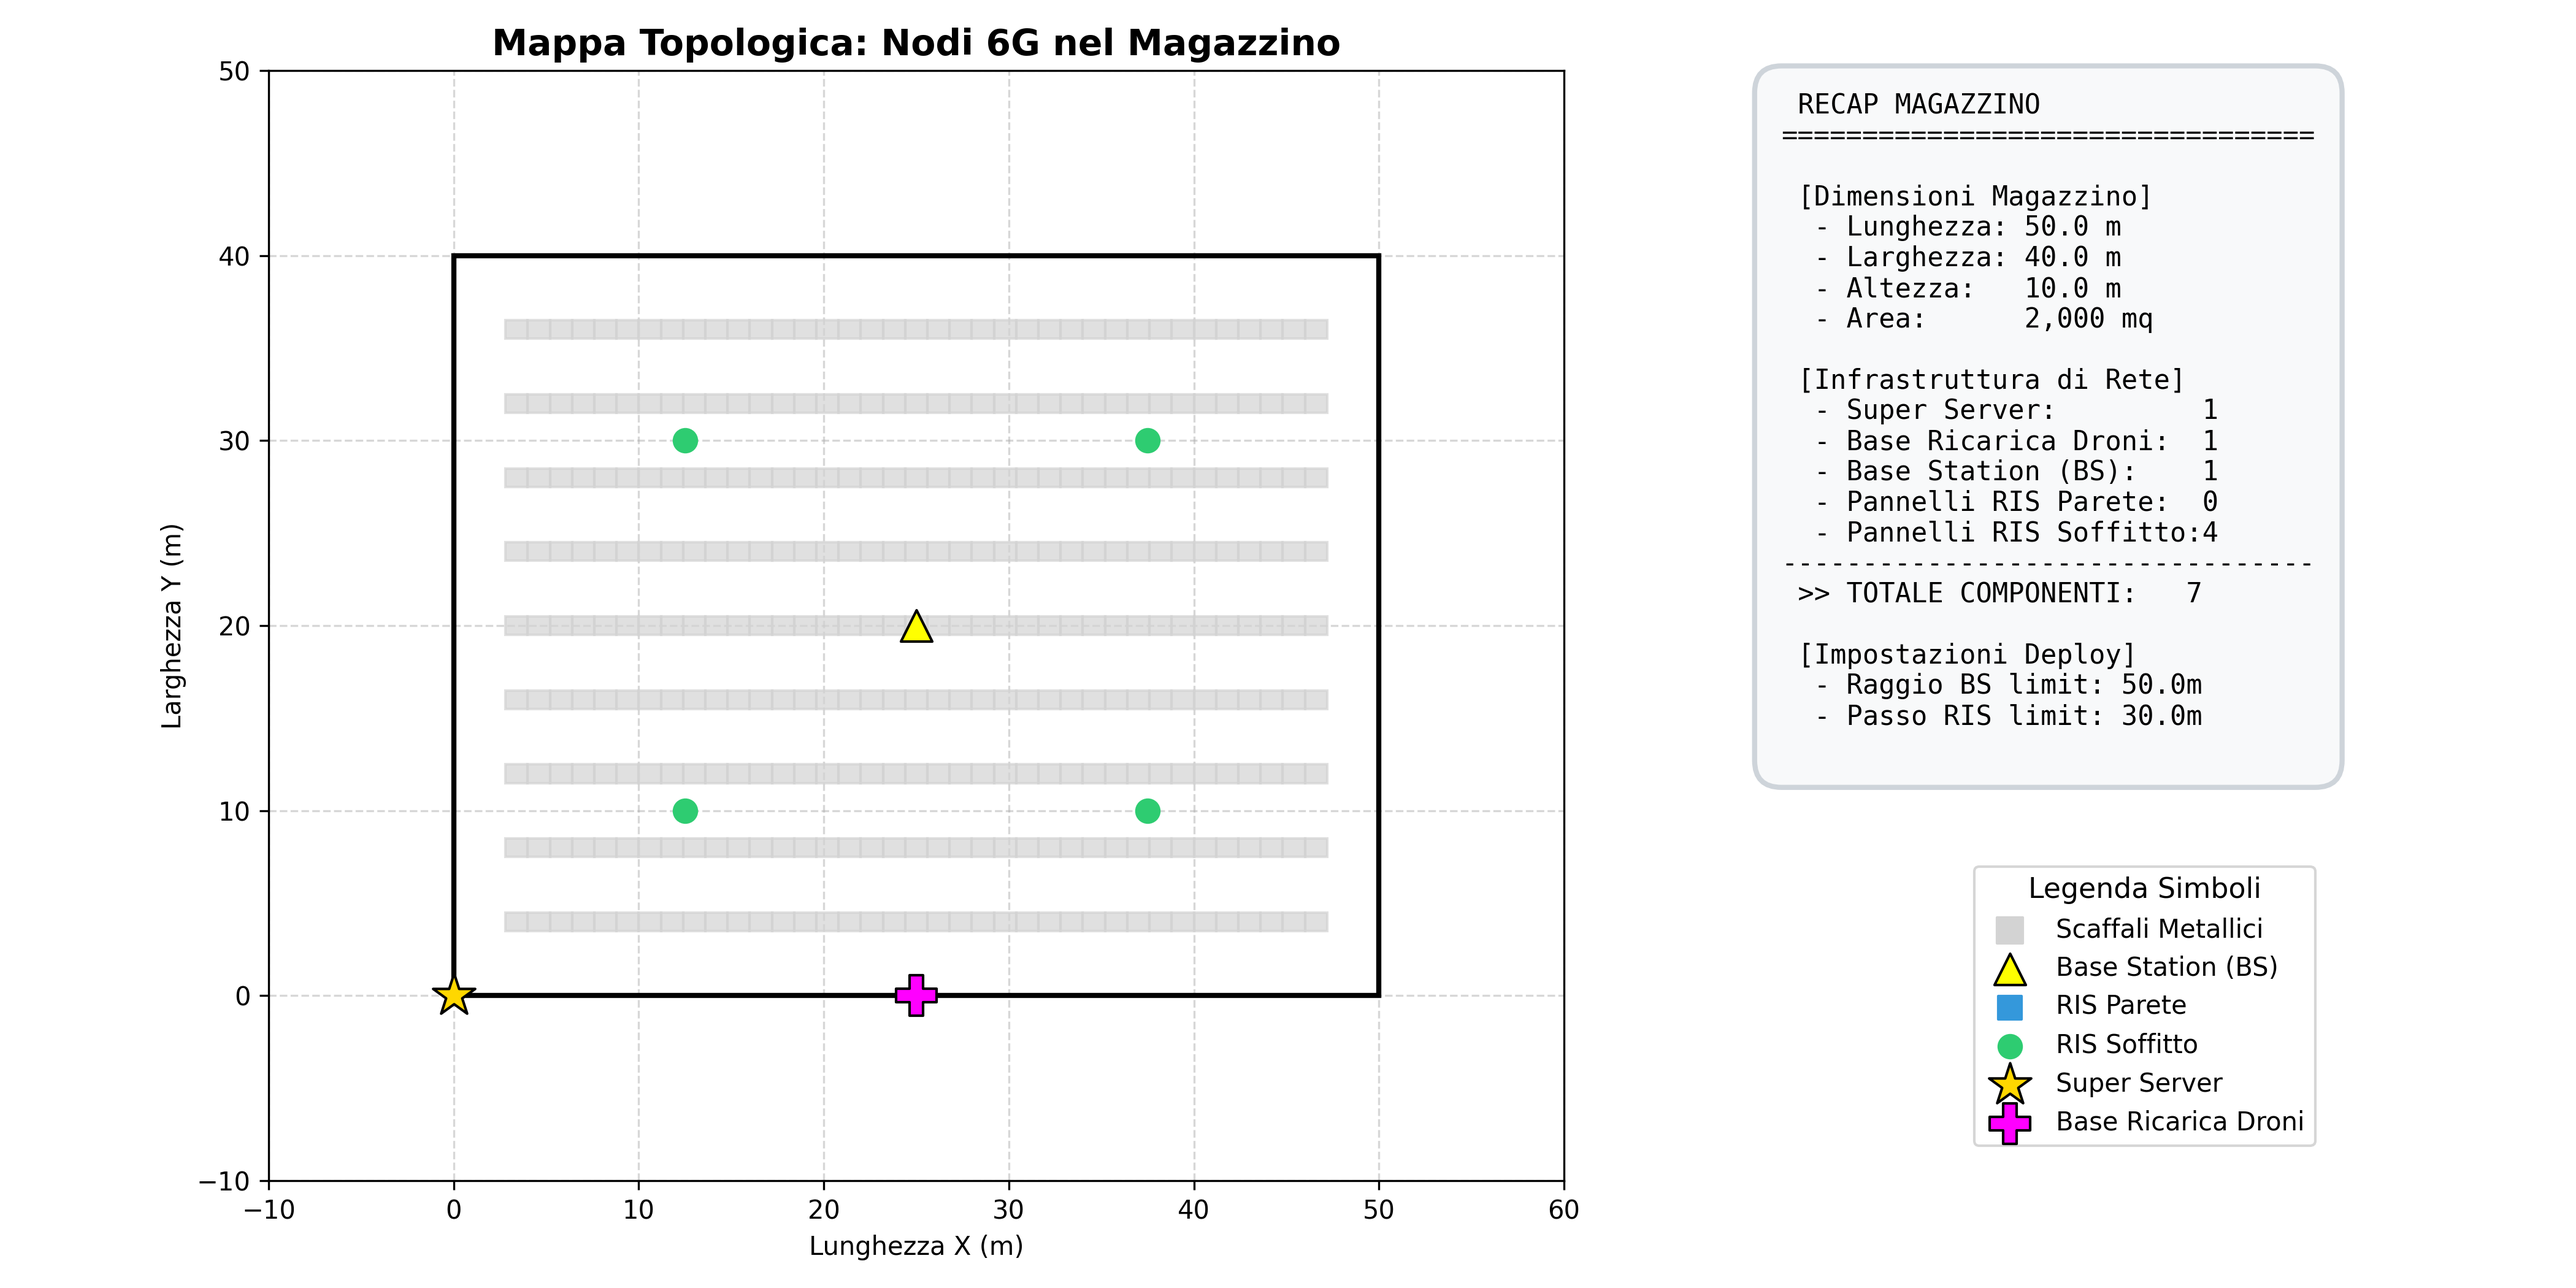
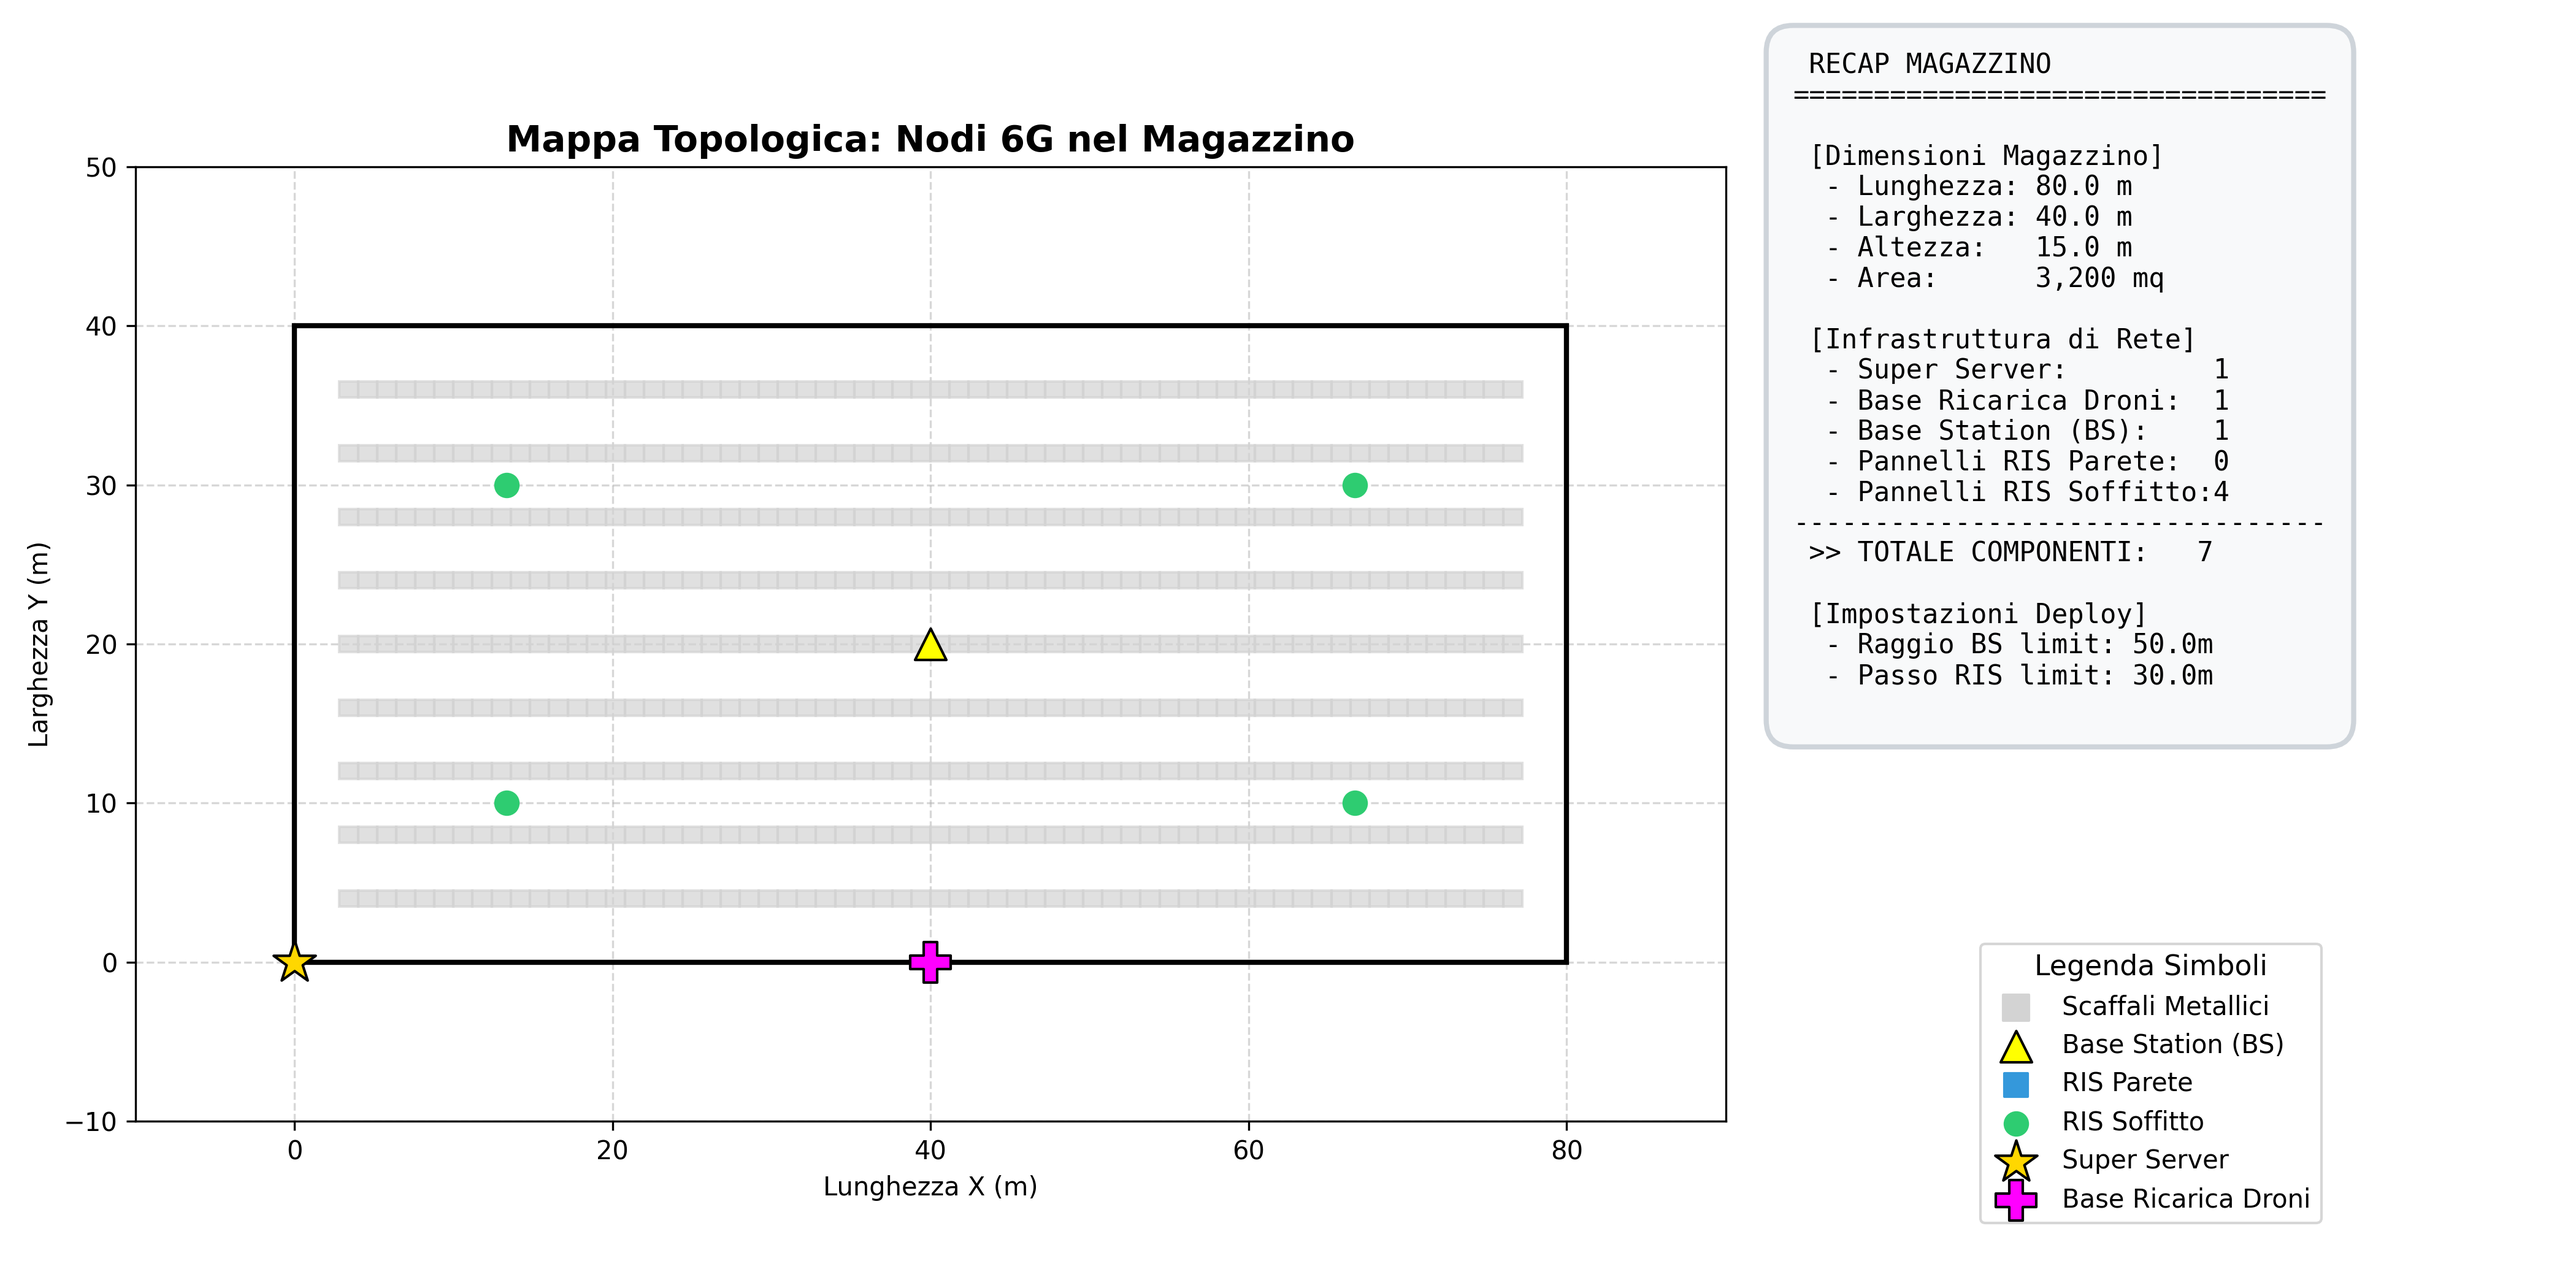
STEP 11 - AGG. ULTIMA VERSIONE

diff --git a/config.py b/config.py
@@ -1011,7 +1011,7 @@ class SimulationEngine:              # Motore di simulazione
             ris_tutte_bom   = [[r['x'], r['y'], 'soffitto'] for r in bom_planner.ris_soffitto] + \
                                [[r['x'], r['y'], 'parete'] for r in bom_planner.ris_parete]
             bs_tutte_bom    = [[bs['x'], bs['y']] for bs in bom_planner.base_stations]
-            ris_tutte = ris_tutte_bom
+            ris_tutte = ris_tutte_bom # Usa le posizioni BOM per i marker del plot
             bs_tutte  = bs_tutte_bom
             # Remap ris_guaste_pos alle coordinate BOM (prime N RIS soffitto della griglia BOM)
             n_guaste = len(ris_guaste_ids)
